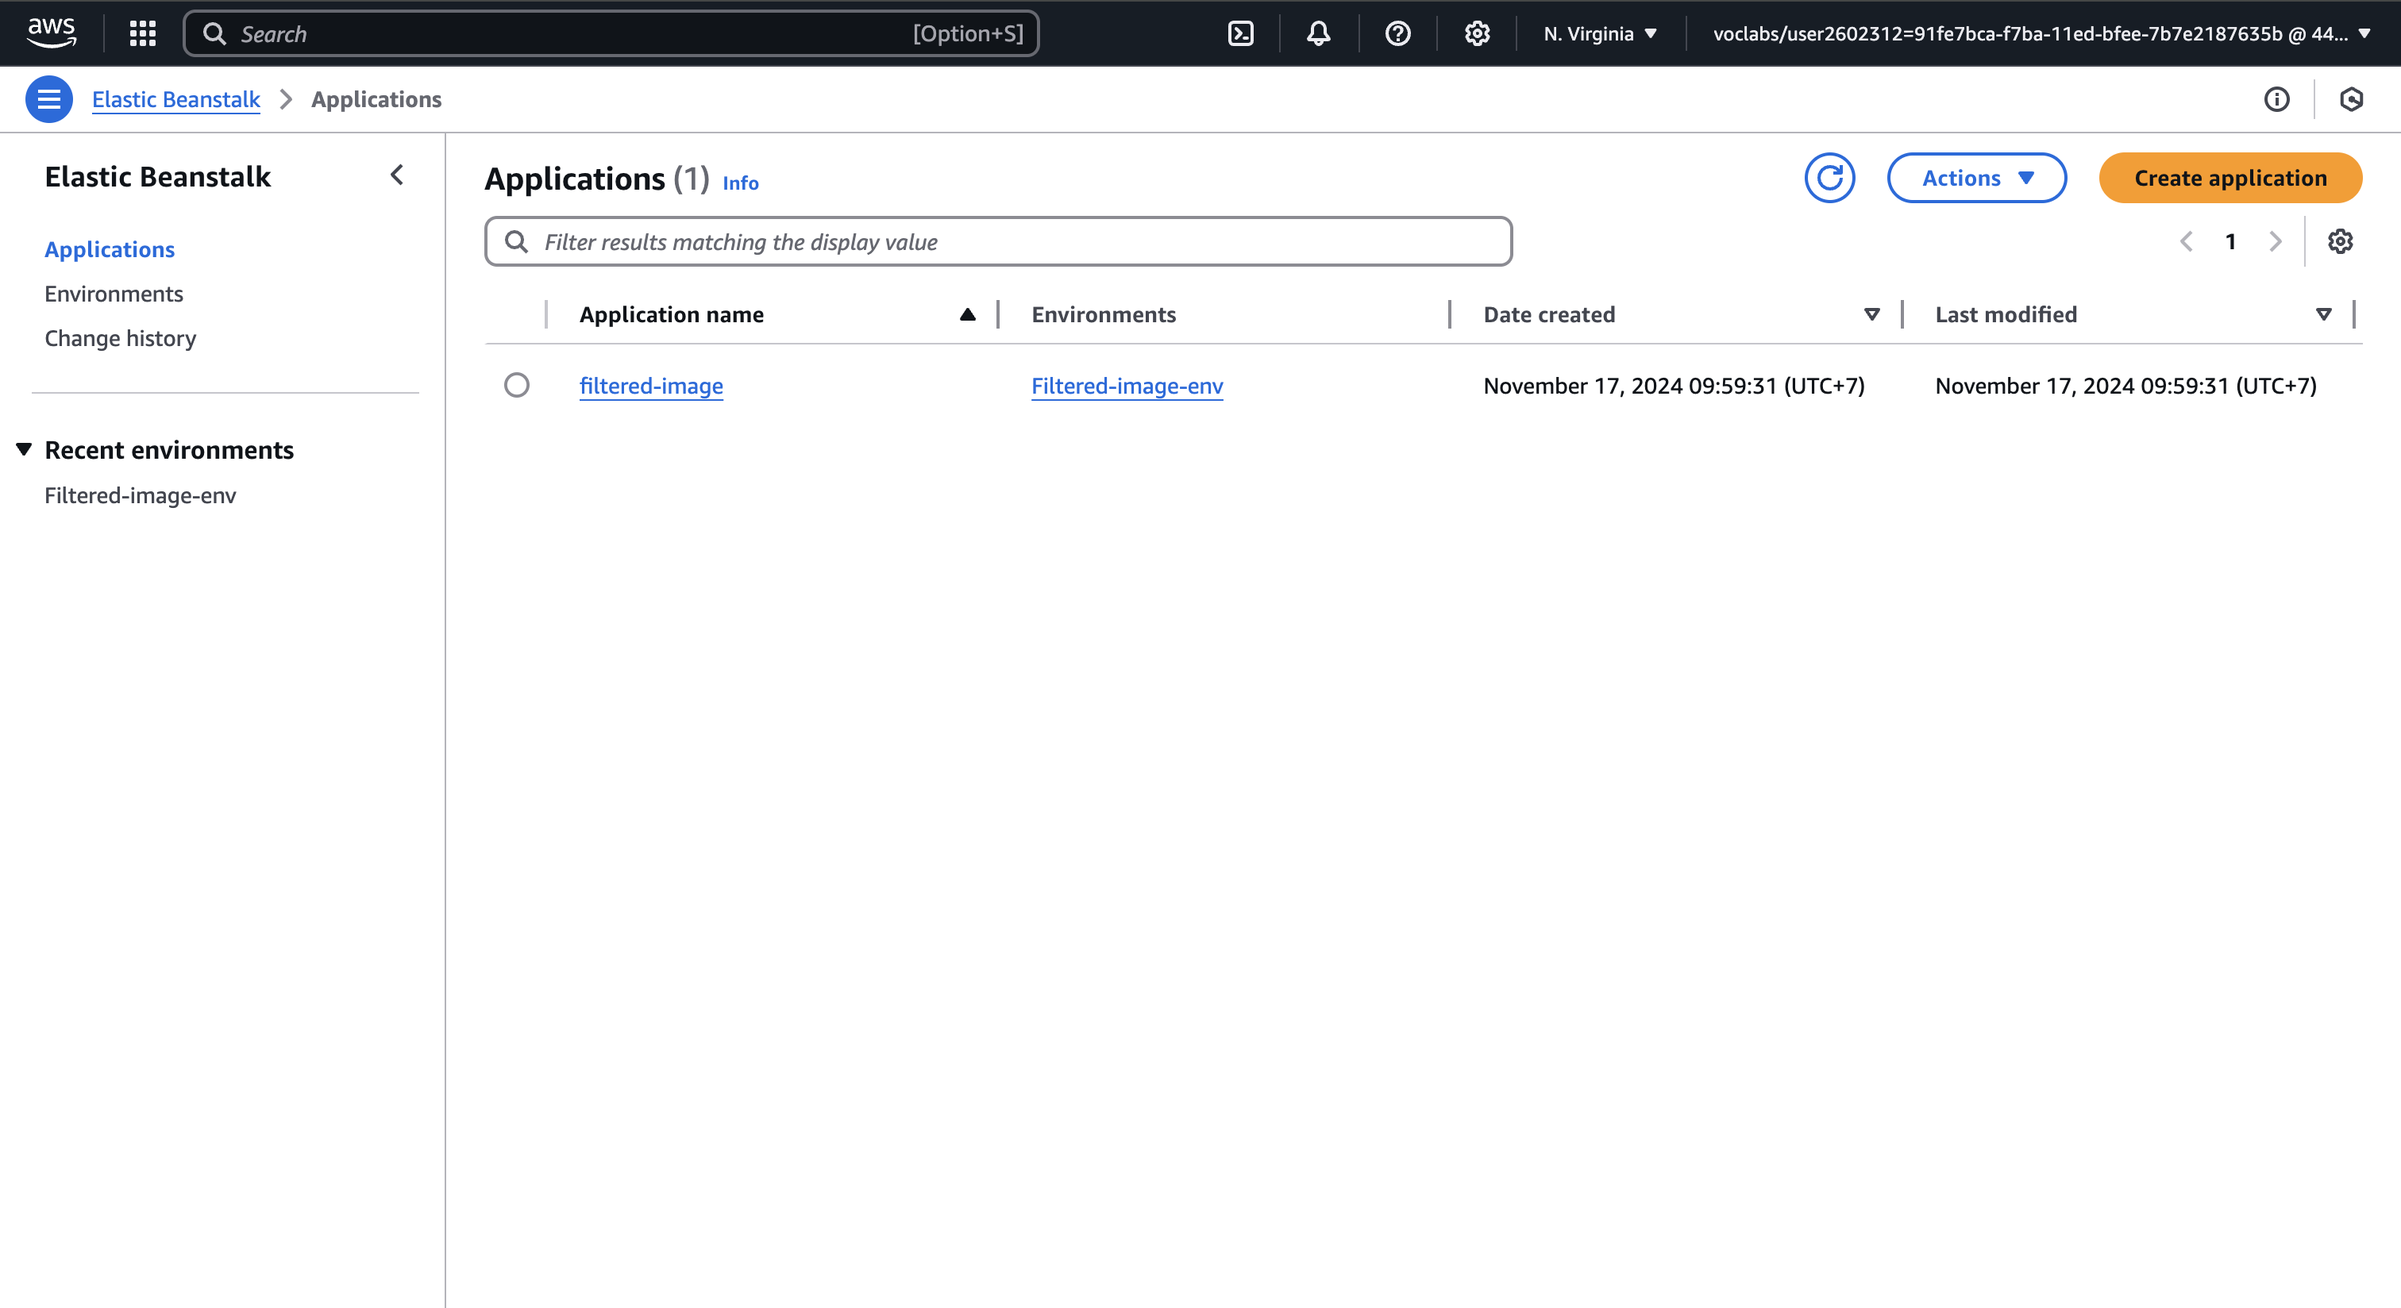
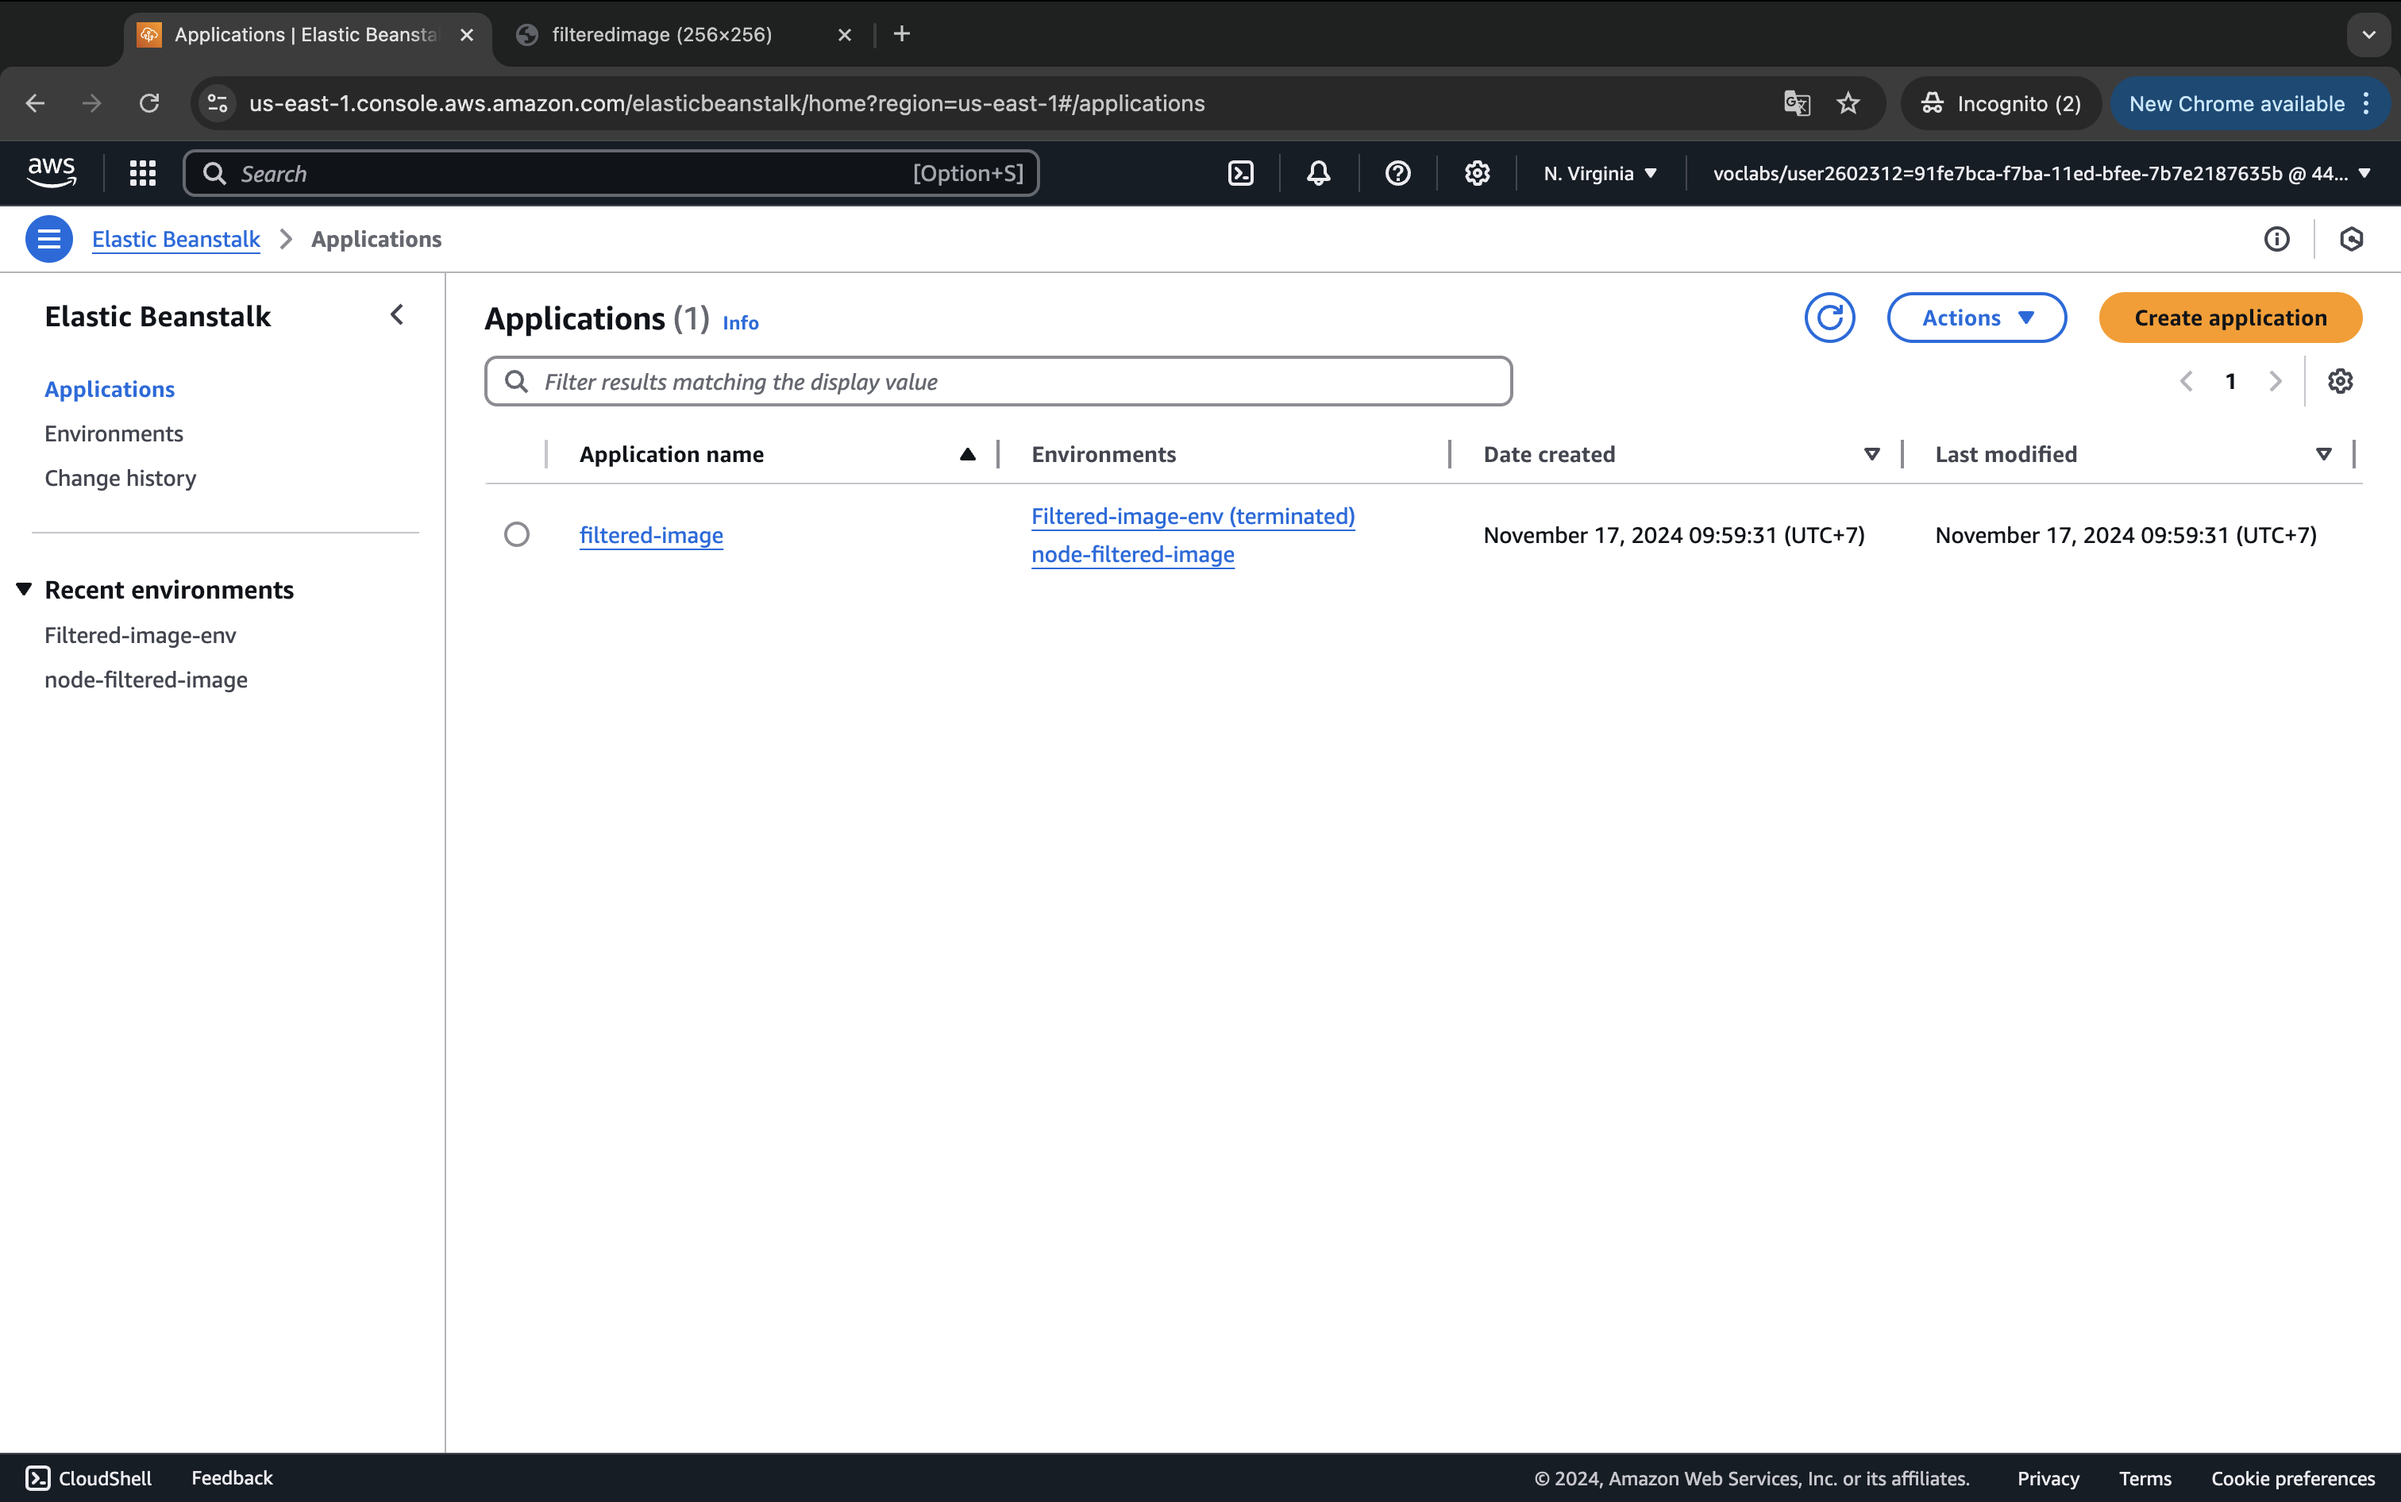
update env

diff --git a/README.md b/README.md
@@ -30,4 +30,4 @@ eb create (create application and environment)
 eb deploy
 
 ## Application url
-http://filtered-image.us-east-1.elasticbeanstalk.com/filteredimage?image_url=https://demo.sirv.com/chair.jpg
+http://node-filtered-image.us-east-1.elasticbeanstalk.com/
